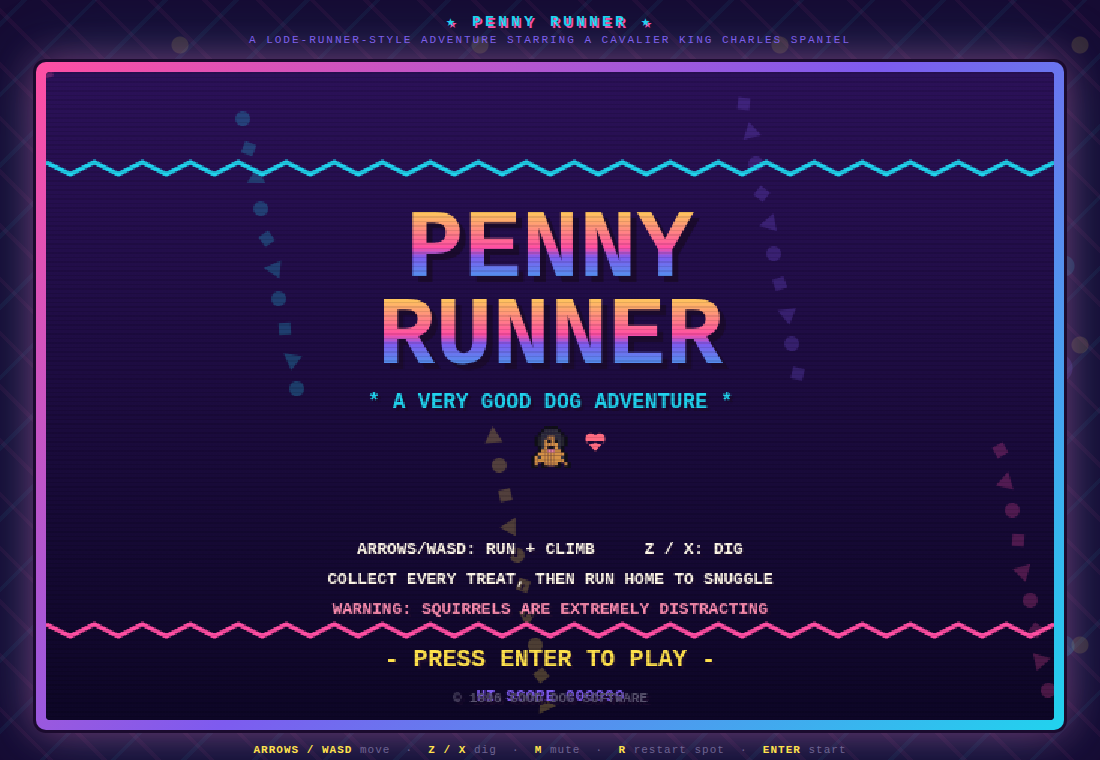
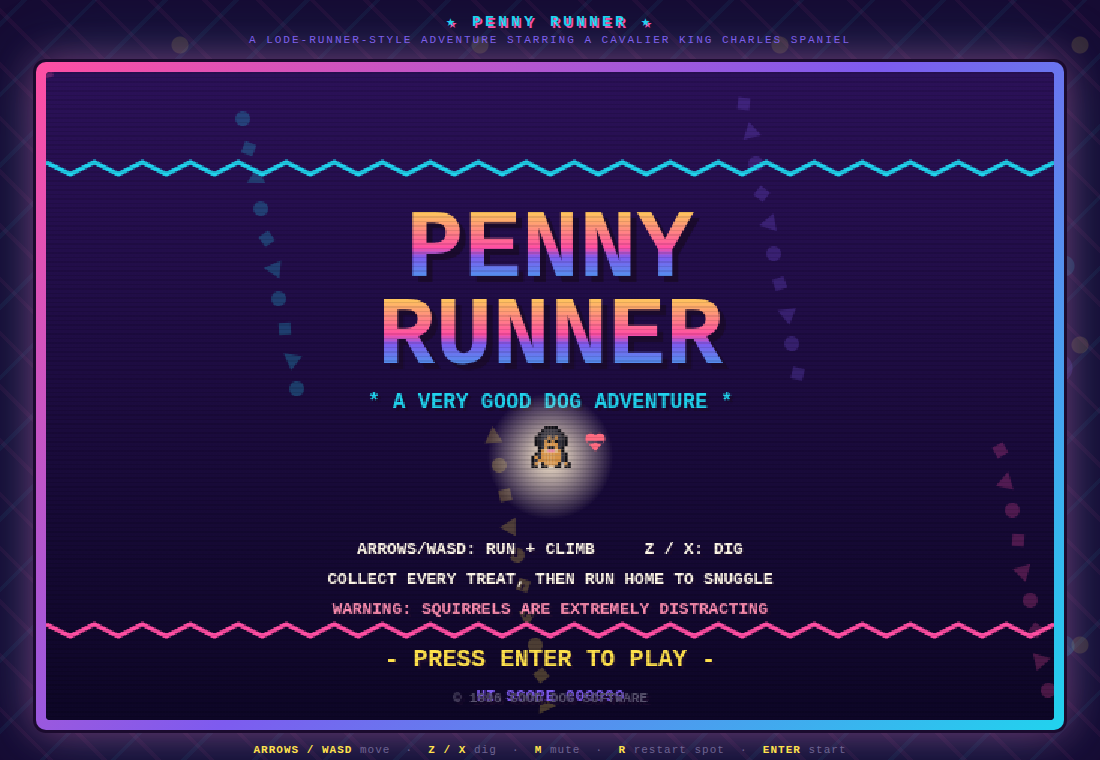
Brighten play field so black-and-tan Penny stays visible
Swap the dark synthwave backdrop for a bright 90s pastel field
(cream/pink/mint gradient), re-tune ladders, bars, squirrels, and
popup text for the light background, and add a warm spotlight behind
Penny on the dark title screen. Refine her markings to match the real
Penny: tan eyebrow dots on a black face, tan muzzle and cheeks, cream
chin tuft, black shoulders on the sitting pose.

Changed region(s): [[0.4327, 0.5145, 0.5564, 0.6961]]

diff --git a/game.js b/game.js
@@ -107,7 +107,7 @@ const LEVELS = [
 const PAL = {
   // penny is a black & tan cavalier: o outline, c black coat, d/e coat shade, w tan points
   o: '#101016', c: '#34343f', d: '#26262f', w: '#d59247', k: '#15151b',
-  p: '#ff8fb2', g: '#9aa0ab', G: '#70757f', r: '#b0623a', e: '#22222a',
+  p: '#ff8fb2', g: '#7e8498', G: '#555a6a', r: '#a3552c', e: '#22222a',
   y: '#ffd23e', b: '#5ec8e8', m: '#ff4fa3', v: '#7e5bef', n: '#274060',
   s: '#f2c894', h: '#ff6b81',
 };
@@ -117,10 +117,10 @@ const PENNY_RUN = [[
   '..........oooo..',
   '.........occcco.',
   'oo......occcccco',
-  '.oo....occeecwwo',
+  '.oo....occeecwco',
   '..ooooooccewwkwo',
   '..occccccceewwwk',
-  '.occwwccccewwwo.',
+  '.occwwccccesswo.',
   '.ocwwwwccccwwp..',
   '.owwwwwwccoooo..',
   '..owwowwoc......',
@@ -130,10 +130,10 @@ const PENNY_RUN = [[
   '..........oooo..',
   '.........occcco.',
   '.oo.....occcccco',
-  '..oo...occeecwwo',
+  '..oo...occeecwco',
   '..ooooooccewwkwo',
   '..occccccceewwwk',
-  '.occwwccccewwwo.',
+  '.occwwccccesswo.',
   '.ocwwwwccccwwp..',
   '.owwwwwwccoooo..',
   '..owwowwoc......',
@@ -191,14 +191,14 @@ const PENNY_SIT = [[
   '......oooo......',
   '.....occcco.....',
   '....occcccco....',
-  '...oeccwwccdo...',
+  '...oeccwcwcdo...',
   '...oecwkwkcdo...',
   '...oecwwwwcdo...',
   '....ocwkkwco....',
-  '....owwppwwo....',
-  '...owwwwwwwwo...',
+  '....owsppswo....',
+  '...ocwwwwwwco...',
   '..owcwwwwwwco...',
-  '..owwwwwwwwwo...',
+  '..ocwwwwwwwco...',
   '..ow.owwwwo.wo..',
   '..oo.oo..oo.oo..',
 ]];
@@ -811,12 +811,12 @@ function rainbowText(txt, x, y, size) {
 }
 
 function drawBG() {
-  // 90s sunset-grid backdrop
+  // bright 90s pastel backdrop — keeps a mostly-black dog visible
   const g = cx.createLinearGradient(0, HUD, 0, H);
-  g.addColorStop(0, '#241047'); g.addColorStop(0.6, '#341a5e'); g.addColorStop(1, '#1c0f38');
+  g.addColorStop(0, '#fff3df'); g.addColorStop(0.55, '#ffe2ee'); g.addColorStop(1, '#e3f2ec');
   cx.fillStyle = g;
   cx.fillRect(0, HUD, W, H - HUD);
-  cx.strokeStyle = 'rgba(126,91,239,0.18)';
+  cx.strokeStyle = 'rgba(126,91,239,0.12)';
   cx.lineWidth = 1;
   for (let c = 0; c <= COLS; c += 2) {
     cx.beginPath(); cx.moveTo(c * T, HUD); cx.lineTo(c * T, H); cx.stroke();
@@ -830,8 +830,8 @@ function drawBG() {
     if (tile(((i * 97) % COLS), ((i * 53) % ROWS)) !== '.') continue;
     cx.save();
     cx.translate(sx, sy);
-    cx.globalAlpha = 0.16;
-    cx.fillStyle = ['#ff4fa3', '#21d3ee', '#ffe14d'][i % 3];
+    cx.globalAlpha = 0.35;
+    cx.fillStyle = ['#ff4fa3', '#21d3ee', '#f5a623'][i % 3];
     if (i % 3 === 0) cx.fillRect(-3, -3, 6, 6);
     else if (i % 3 === 1) { cx.beginPath(); cx.arc(0, 0, 3.4, 0, 7); cx.fill(); }
     else { cx.beginPath(); cx.moveTo(0, -4); cx.lineTo(4, 3); cx.lineTo(-4, 3); cx.fill(); }
@@ -874,18 +874,18 @@ function drawTile(c, r) {
     cx.fillStyle = 'rgba(255,255,255,0.08)';
     if ((c + r) % 2 === 0) cx.fillRect(x, y, T, T);
   } else if (ch === 'H') {
-    cx.fillStyle = '#ffd23e';
+    cx.fillStyle = '#f59f0a';
     cx.fillRect(x + 4, y, 3, T);
     cx.fillRect(x + T - 7, y, 3, T);
     cx.fillRect(x + 4, y + 4, T - 8, 3);
     cx.fillRect(x + 4, y + 15, T - 8, 3);
-    cx.fillStyle = '#c79a1d';
+    cx.fillStyle = '#a86c06';
     cx.fillRect(x + 4, y + 6, T - 8, 1);
     cx.fillRect(x + 4, y + 17, T - 8, 1);
   } else if (ch === '-') {
-    cx.fillStyle = '#cfd6e4';
+    cx.fillStyle = '#7d8496';
     cx.fillRect(x, y + 3, T, 3);
-    cx.fillStyle = '#8d93a5';
+    cx.fillStyle = '#535a6c';
     cx.fillRect(x, y + 6, T, 1);
     if (c % 3 === 0) { cx.fillStyle = '#ff4fa3'; cx.fillRect(x + 10, y + 1, 4, 7); } // clothespin
   }
@@ -909,10 +909,12 @@ function drawPenny() {
     cx.fillStyle = '#fff';
     cx.beginPath(); cx.arc(bx, by, 12, 0, 7); cx.fill();
     cx.beginPath(); cx.arc(bx - 8, by + 11, 3, 0, 7); cx.fill();
+    cx.strokeStyle = '#ff4fa3'; cx.lineWidth = 1.5;
+    cx.beginPath(); cx.arc(bx, by, 12, 0, 7); cx.stroke();
     cx.drawImage(SPR.sqrlL[0], bx - 9, by - 7, 18, 14);
     chunkyText('!!', bx + 15, by - 4, 13, '#ff4fa3');
   } else if (a.focusT > FOCUS_TIME - 0.8) {
-    chunkyText('GOOD GIRL', px(a.x), px(HUD + a.y - 28), 9, '#ffe14d');
+    chunkyText('GOOD GIRL', px(a.x), px(HUD + a.y - 28), 9, '#d61f7f', 'center', '#fff6e8');
   }
   // dig sparkle
   if (a.digT > 0) {
@@ -948,9 +950,9 @@ function drawFamily() {
   cx.drawImage(img, x, y);
   if (exitOpen) {
     const g = Math.sin(stateT * 6) * 0.5 + 0.5;
-    cx.fillStyle = `rgba(255,225,77,${0.18 + g * 0.2})`;
+    cx.fillStyle = `rgba(245,159,10,${0.22 + g * 0.22})`;
     cx.beginPath(); cx.arc(family.x, HUD + family.y - 8, 30, 0, 7); cx.fill();
-    chunkyText('HOME!', px(family.x), y - 10 - g * 3, 10, '#ffe14d');
+    chunkyText('HOME!', px(family.x), y - 10 - g * 3, 10, '#d61f7f', 'center', '#fff6e8');
     drawHeart(family.x + 26, HUD + family.y - 26 + Math.sin(stateT * 5) * 3, 5);
   }
 }
@@ -996,7 +998,7 @@ function drawPopups() {
   for (const p of popups) {
     const a = 1 - p.t / 1.2;
     cx.globalAlpha = a;
-    chunkyText(p.txt, px(p.x), px(HUD + p.y - p.t * 28), 11, '#ffe14d');
+    chunkyText(p.txt, px(p.x), px(HUD + p.y - p.t * 28), 11, '#d61f7f', 'center', '#fff6e8');
     cx.globalAlpha = 1;
   }
   for (const h of hearts) {
@@ -1046,6 +1048,12 @@ function drawTitle() {
   rainbowText('RUNNER', W / 2, 178, 64);
   chunkyText('* A VERY GOOD DOG ADVENTURE *', W / 2, 220, 14, '#21d3ee');
 
+  // warm spotlight so a black dog reads against the dark title backdrop
+  const glow = cx.createRadialGradient(W / 2, 256, 4, W / 2, 256, 42);
+  glow.addColorStop(0, 'rgba(255,238,210,0.95)');
+  glow.addColorStop(1, 'rgba(255,238,210,0)');
+  cx.fillStyle = glow;
+  cx.beginPath(); cx.arc(W / 2, 256, 42, 0, 7); cx.fill();
   cx.drawImage(SPR.sit, W / 2 - SPR.sit.width / 2, 238 + Math.sin(stateT * 3) * 3);
   drawHeart(W / 2 + 30, 246 + Math.sin(stateT * 3) * 3, 6);
 
